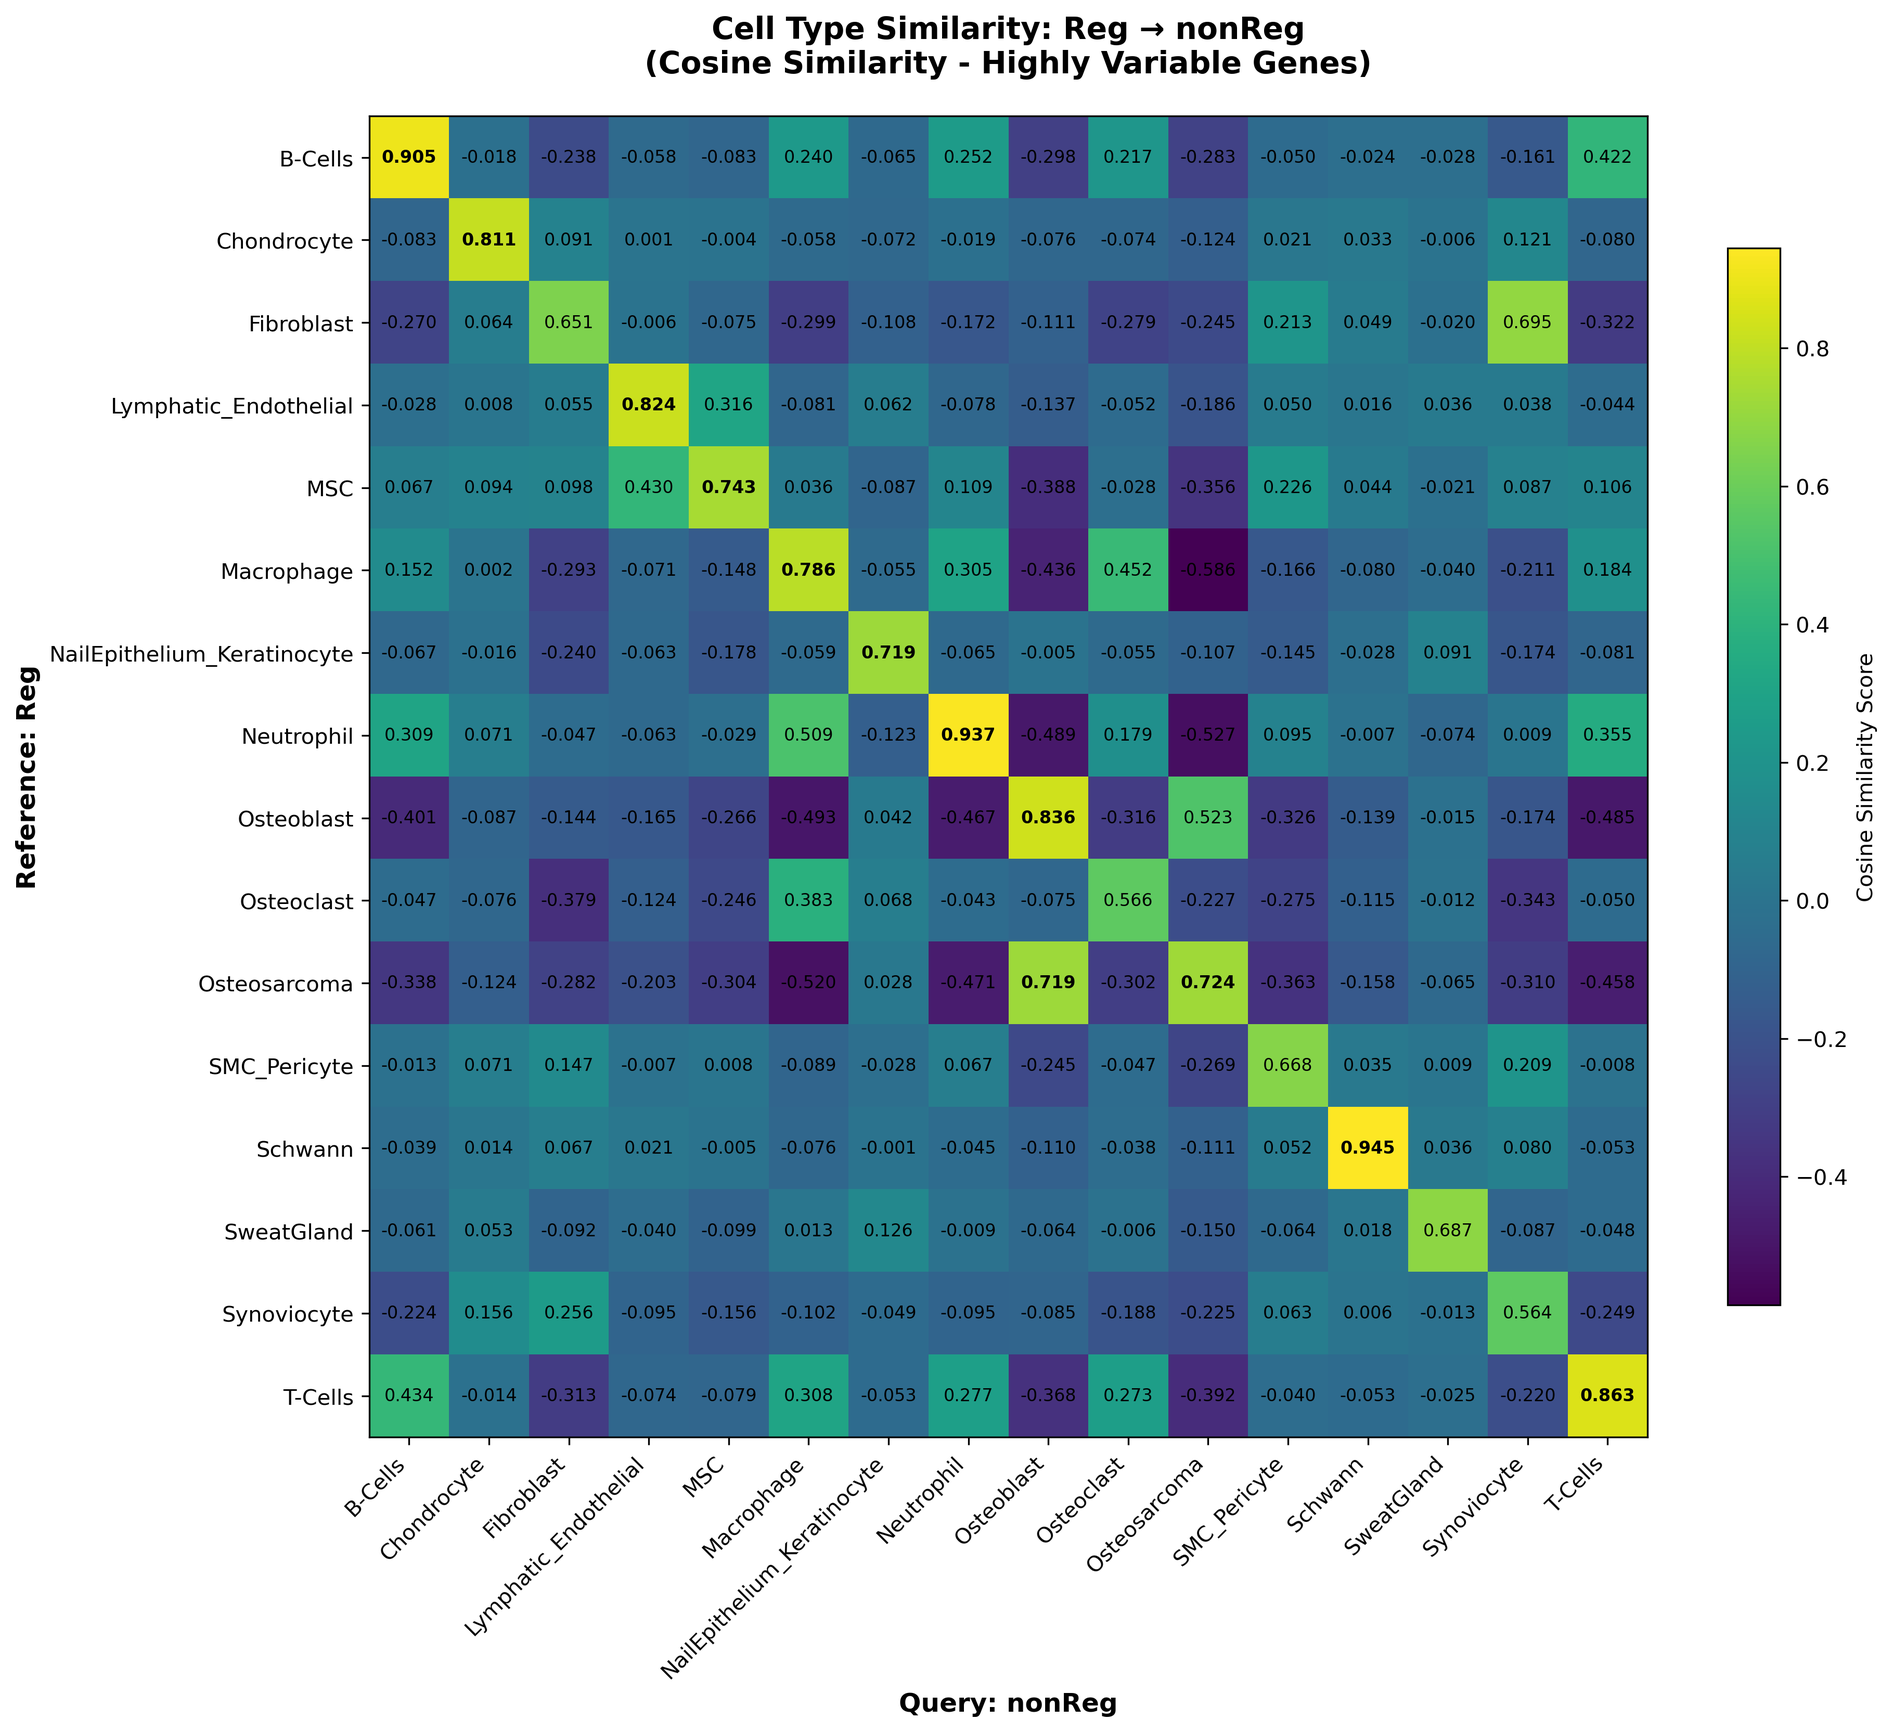
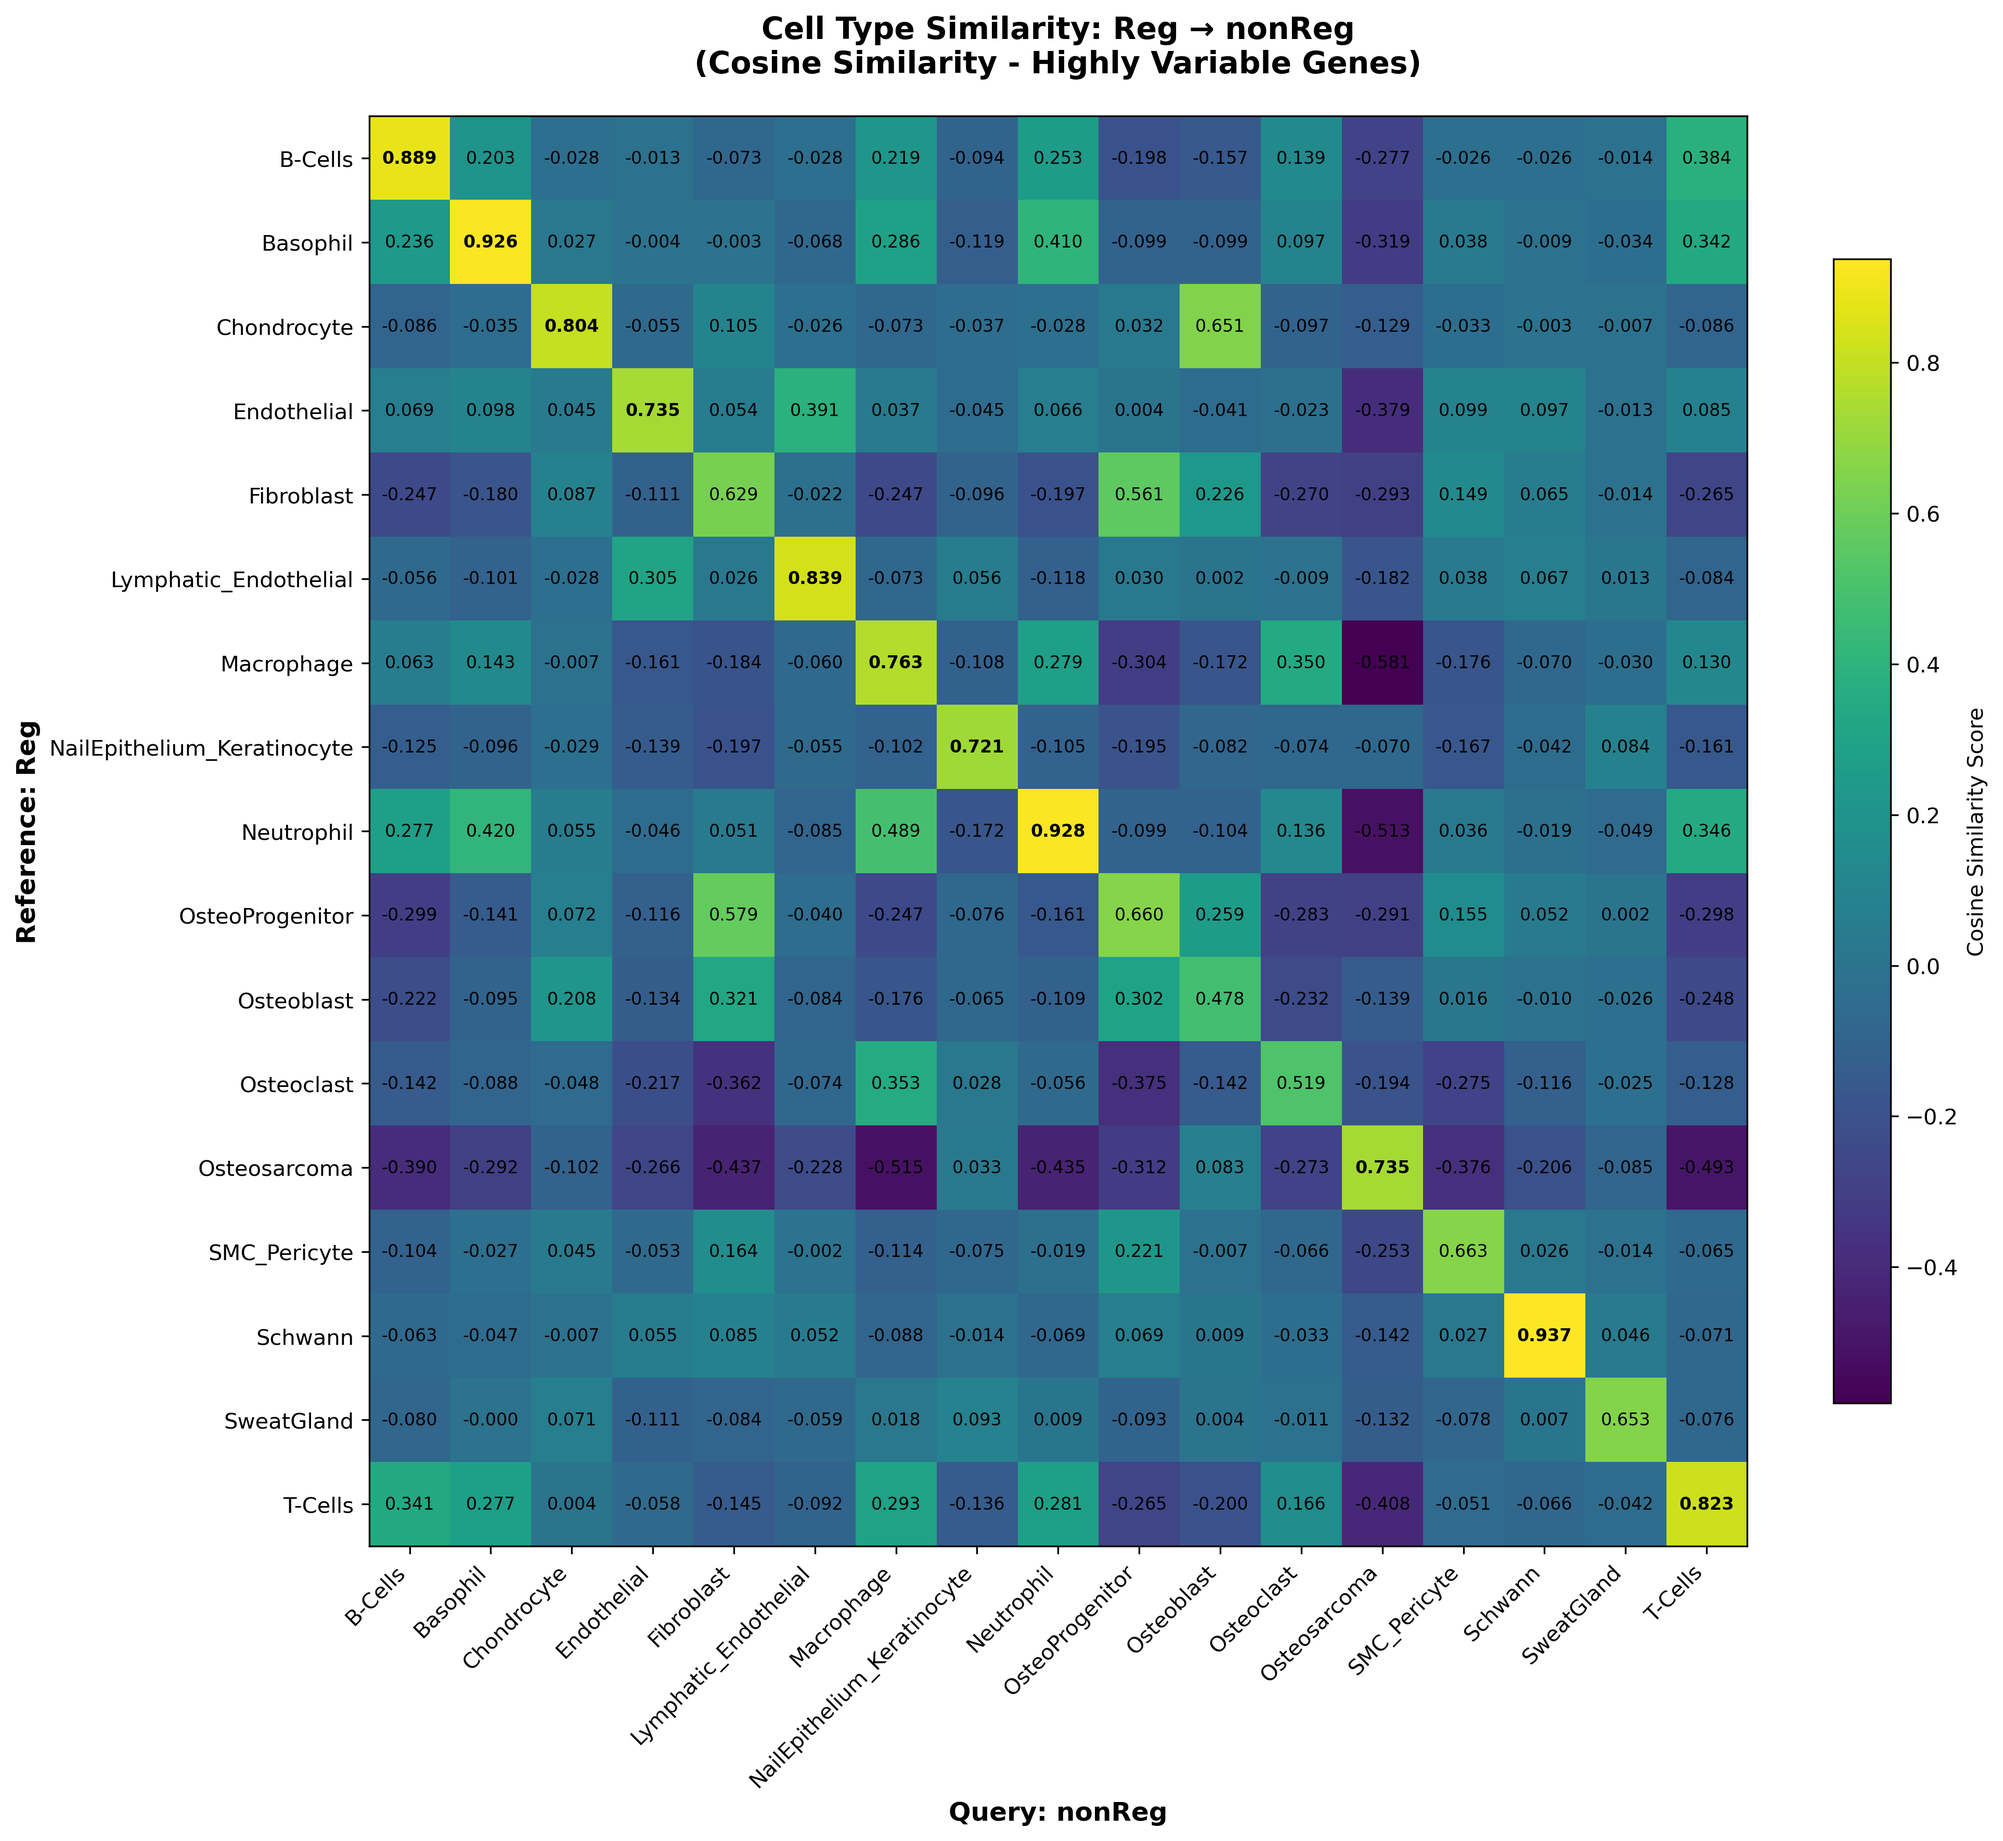
Update cosine similarity and cell-cell interactions

diff --git a/README.md b/README.md
@@ -236,11 +236,11 @@ We used the above marker genes to annotate our celltypes as follows:
 | Celltype                     | Reg   | nonReg | Total |
 |------------------------------|------:|-------:|------:|
 | B-Cells                      |   259 |    291 |   550 |
+| Basophil                     |    30 |    109 |   139 |
 | Chondrocyte                  |   185 |      3 |   188 |
 | Endothelial                  |  1513 |   1076 |  2589 |
 | Fibroblast                   |  2759 |    827 |  3586 |
 | Lymphatic_Endothelial        |   147 |    203 |   350 |
-| MAST                         |    30 |    109 |   139 |
 | Macrophage                   |  1774 |   3221 |  4995 |
 | NailEpithelium_Keratinocyte  |   663 |    491 |  1154 |
 | Neutrophil                   |   221 |    424 |   645 |
@@ -254,7 +254,8 @@ We used the above marker genes to annotate our celltypes as follows:
 | T-Cells                      |   523 |   1014 |  1537 |
 | **Total**                    | 11714 |  19686 | 31400 |
 
-![](figures/axt_cell_ratios.png?v=8)
+
+![](figures/axt_cell_ratios.png?v=9) 
 
 ###
 ## Differential gene expression 
@@ -292,7 +293,7 @@ This pipeline identifies potential **ligand–receptor interactions** from singl
 
 #### Top lrScores interactions with minimum |logFC| 0.5
 
-![](figures/axt_liana_dotplot.png?=3)
+![](figures/axt_liana_dotplot.png?=4)
 
 
 #### Click the link below for full list of cell-cell interactions
@@ -372,7 +373,7 @@ This analysis reveals:
 
 Cosine similarity = 1 (if all genes scaled equally) → Tells you nothing about the 10x change. Use log fold change instead.
 
-![](figures/axt_cosine_similarity.png?v=3) 
+![](figures/axt_cosine_similarity.png?v=5) 
 
 
 ## Pathways and GO analysis 
